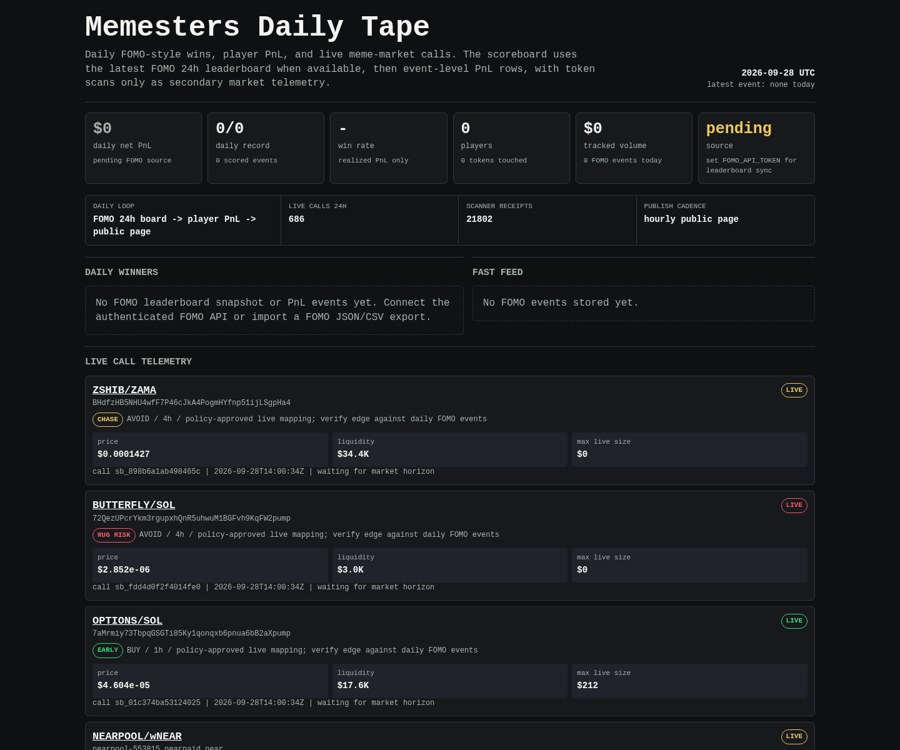
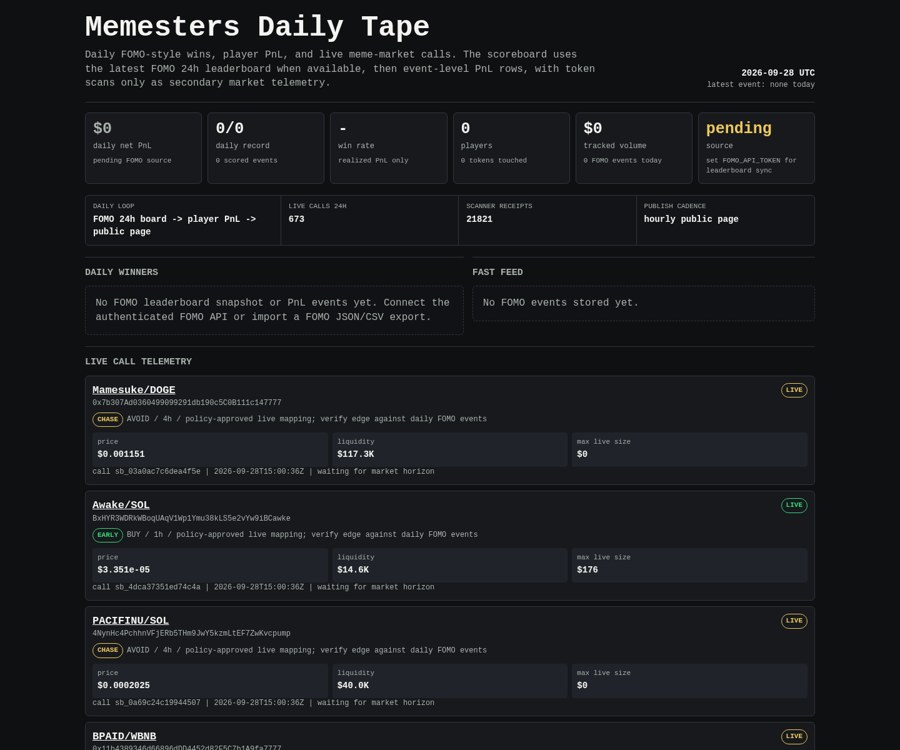
Update Memesters scoreboard

diff --git a/memesters/index.html b/memesters/index.html
@@ -149,8 +149,8 @@
 
     <div class="rail" aria-label="live operating loop">
       <div><span>daily loop</span><b>FOMO 24h board -> player PnL -> public page</b></div>
-      <div><span>live calls 24h</span><b>686</b></div>
-      <div><span>scanner receipts</span><b>21802</b></div>
+      <div><span>live calls 24h</span><b>673</b></div>
+      <div><span>scanner receipts</span><b>21821</b></div>
       <div><span>publish cadence</span><b>hourly public page</b></div>
     </div>
 
@@ -171,8 +171,8 @@
     <article class="receipt">
       <div class="receipt-head">
         <div>
-          <div class="pair"><a href="https://dexscreener.com/solana/caremnjwjz1pb4rf1w8y4xzbi7s6imp526yzvtetecuv">ZSHIB/ZAMA</a></div>
-          <div class="addr">BHdfzHB5NHU4wfF7P46cJkA4PogmHYfnp51ijLSgpHa4</div>
+          <div class="pair"><a href="https://dexscreener.com/bsc/0xbe433374b9f81debe7bd3f4f0582991dfd92c070">Mamesuke/DOGE</a></div>
+          <div class="addr">0x7b307Ad0360499099291db190c5C0B111c147777</div>
           <div class="addr policy-line">
             <span class="badge chase">CHASE</span>
             <span>AVOID / 4h / policy-approved live mapping; verify edge against daily FOMO events</span>
@@ -181,40 +181,19 @@
         <span class="badge chase">LIVE</span>
       </div>
       <div class="receipt-grid">
-        <div class="kv"><span>price</span><b>$0.0001427</b></div>
-        <div class="kv"><span>liquidity</span><b>$34.4K</b></div>
+        <div class="kv"><span>price</span><b>$0.001151</b></div>
+        <div class="kv"><span>liquidity</span><b>$117.3K</b></div>
         <div class="kv"><span>max live size</span><b>$0</b></div>
       </div>
-      <div class="outcomes">call sb_898b6a1ab498465c | 2026-09-28T14:00:34Z | waiting for market horizon</div>
+      <div class="outcomes">call sb_03a0ac7c6dea4f5e | 2026-09-28T15:00:36Z | waiting for market horizon</div>
     </article>
     
 
     <article class="receipt">
       <div class="receipt-head">
         <div>
-          <div class="pair"><a href="https://dexscreener.com/solana/2hawigtf8kxqdi96arkiqhjtehl2hxapxxbvnu9yctsy">BUTTERFLY/SOL</a></div>
-          <div class="addr">72QezUPcrYkm3rgupxhQnR5uhwuM1BGFvh9KqFW2pump</div>
-          <div class="addr policy-line">
-            <span class="badge rug-risk">RUG RISK</span>
-            <span>AVOID / 4h / policy-approved live mapping; verify edge against daily FOMO events</span>
-          </div>
-        </div>
-        <span class="badge rug-risk">LIVE</span>
-      </div>
-      <div class="receipt-grid">
-        <div class="kv"><span>price</span><b>$2.852e-06</b></div>
-        <div class="kv"><span>liquidity</span><b>$3.0K</b></div>
-        <div class="kv"><span>max live size</span><b>$0</b></div>
-      </div>
-      <div class="outcomes">call sb_fdd4d0f2f4014fe0 | 2026-09-28T14:00:34Z | waiting for market horizon</div>
-    </article>
-    
-
-    <article class="receipt">
-      <div class="receipt-head">
-        <div>
-          <div class="pair"><a href="https://dexscreener.com/solana/6rxhwqk8ljzliwu1yd8hhb2paph9kkb8we8ewcxgahg6">OPTIONS/SOL</a></div>
-          <div class="addr">7aMrmiy73TbpqGSGTi85Ky1qonqxb6pnua6bB2aXpump</div>
+          <div class="pair"><a href="https://dexscreener.com/solana/2wffb4o44jfb9ovz6ldutntxhqj2szafnb69hu4xzowk">Awake/SOL</a></div>
+          <div class="addr">BxHYR3WDRkWBoqUAqV1Wp1Ymu38kLS5e2vYw9iBCawke</div>
           <div class="addr policy-line">
             <span class="badge early">EARLY</span>
             <span>BUY / 1h / policy-approved live mapping; verify edge against daily FOMO events</span>
@@ -223,61 +202,19 @@
         <span class="badge early">LIVE</span>
       </div>
       <div class="receipt-grid">
-        <div class="kv"><span>price</span><b>$4.604e-05</b></div>
-        <div class="kv"><span>liquidity</span><b>$17.6K</b></div>
-        <div class="kv"><span>max live size</span><b>$212</b></div>
-      </div>
-      <div class="outcomes">call sb_01c374ba53124025 | 2026-09-28T14:00:34Z | waiting for market horizon</div>
-    </article>
-    
-
-    <article class="receipt">
-      <div class="receipt-head">
-        <div>
-          <div class="pair"><a href="https://dexscreener.com/near/refv2-nearpool-553815.nearpaid.near:wrap.near:10000">NEARPOOL/wNEAR</a></div>
-          <div class="addr">nearpool-553815.nearpaid.near</div>
-          <div class="addr policy-line">
-            <span class="badge chase">CHASE</span>
-            <span>AVOID / 4h / policy-approved live mapping; verify edge against daily FOMO events</span>
-          </div>
-        </div>
-        <span class="badge chase">LIVE</span>
-      </div>
-      <div class="receipt-grid">
-        <div class="kv"><span>price</span><b>$1.858e-05</b></div>
+        <div class="kv"><span>price</span><b>$3.351e-05</b></div>
         <div class="kv"><span>liquidity</span><b>$14.6K</b></div>
-        <div class="kv"><span>max live size</span><b>$0</b></div>
+        <div class="kv"><span>max live size</span><b>$176</b></div>
       </div>
-      <div class="outcomes">call sb_7a63ab04ff4d4241 | 2026-09-28T13:45:32Z | waiting for market horizon</div>
+      <div class="outcomes">call sb_4dca37351ed74c4a | 2026-09-28T15:00:36Z | waiting for market horizon</div>
     </article>
     
 
     <article class="receipt">
       <div class="receipt-head">
         <div>
-          <div class="pair"><a href="https://dexscreener.com/solana/cgasvfiurbzzkc78pxw1yc8qbsozsvytom6qgs3xkbjz">XPAY/SOL</a></div>
-          <div class="addr">Fz2nZbXYjKFRnsCUGeTm2P7f85osn1PPvpQ6JTS3pump</div>
-          <div class="addr policy-line">
-            <span class="badge rug-risk">RUG RISK</span>
-            <span>AVOID / 4h / policy-approved live mapping; verify edge against daily FOMO events</span>
-          </div>
-        </div>
-        <span class="badge rug-risk">LIVE</span>
-      </div>
-      <div class="receipt-grid">
-        <div class="kv"><span>price</span><b>$2.357e-06</b></div>
-        <div class="kv"><span>liquidity</span><b>$2.4K</b></div>
-        <div class="kv"><span>max live size</span><b>$0</b></div>
-      </div>
-      <div class="outcomes">call sb_5cc372fc96d84155 | 2026-09-28T13:45:32Z | waiting for market horizon</div>
-    </article>
-    
-
-    <article class="receipt">
-      <div class="receipt-head">
-        <div>
-          <div class="pair"><a href="https://dexscreener.com/solana/6rxk9bcnq2scyqcwqfs6am78uwdjzzwwjwxjqjdzcndw">MALIBU/AQUA</a></div>
-          <div class="addr">6o8o5kfGWvqVoVji2DZZQ9MLuNhkNLkDRXo5tgkYk6A</div>
+          <div class="pair"><a href="https://dexscreener.com/solana/4vjg8gmpke4nmbjegea24pryrn6z61jdsaqshylpnmf9">PACIFINU/SOL</a></div>
+          <div class="addr">4NynHc4PchhnVFjERb5THm9JwY5kzmLtEF7ZwKvcpump</div>
           <div class="addr policy-line">
             <span class="badge chase">CHASE</span>
             <span>AVOID / 4h / policy-approved live mapping; verify edge against daily FOMO events</span>
@@ -286,19 +223,19 @@
         <span class="badge chase">LIVE</span>
       </div>
       <div class="receipt-grid">
-        <div class="kv"><span>price</span><b>$3.922e-05</b></div>
-        <div class="kv"><span>liquidity</span><b>$17.6K</b></div>
+        <div class="kv"><span>price</span><b>$0.0002025</b></div>
+        <div class="kv"><span>liquidity</span><b>$40.0K</b></div>
         <div class="kv"><span>max live size</span><b>$0</b></div>
       </div>
-      <div class="outcomes">call sb_8fc928343d73468f | 2026-09-28T13:45:32Z | waiting for market horizon</div>
+      <div class="outcomes">call sb_0a69c24c19944507 | 2026-09-28T15:00:36Z | waiting for market horizon</div>
     </article>
     
 
     <article class="receipt">
       <div class="receipt-head">
         <div>
-          <div class="pair"><a href="https://dexscreener.com/solana/ec6q71yelnv1knvnerrwrmmqzsujqysh81trti5irp6">Viscacha/SOL</a></div>
-          <div class="addr">BKpPmVjnHmnRWUxVDgsFM8qfMDSG9fKPEDA9YRh1KMEs</div>
+          <div class="pair"><a href="https://dexscreener.com/bsc/0xfe46350bc381e1a554914deaf7663998c2a4b436">BPAID/WBNB</a></div>
+          <div class="addr">0x11b4389346d66896dDD4452d82F5C7b1A9fa7777</div>
           <div class="addr policy-line">
             <span class="badge chase">CHASE</span>
             <span>AVOID / 4h / policy-approved live mapping; verify edge against daily FOMO events</span>
@@ -307,19 +244,40 @@
         <span class="badge chase">LIVE</span>
       </div>
       <div class="receipt-grid">
-        <div class="kv"><span>price</span><b>$0.0001024</b></div>
-        <div class="kv"><span>liquidity</span><b>$27.9K</b></div>
+        <div class="kv"><span>price</span><b>$3.092e-05</b></div>
+        <div class="kv"><span>liquidity</span><b>$25.3K</b></div>
         <div class="kv"><span>max live size</span><b>$0</b></div>
       </div>
-      <div class="outcomes">call sb_2f3f9690f9c6473b | 2026-09-28T13:45:32Z | waiting for market horizon</div>
+      <div class="outcomes">call sb_80bf8dada3ef4f29 | 2026-09-28T15:00:36Z | waiting for market horizon</div>
     </article>
     
 
     <article class="receipt">
       <div class="receipt-head">
         <div>
-          <div class="pair"><a href="https://dexscreener.com/solana/caremnjwjz1pb4rf1w8y4xzbi7s6imp526yzvtetecuv">ZSHIB/ZAMA</a></div>
-          <div class="addr">BHdfzHB5NHU4wfF7P46cJkA4PogmHYfnp51ijLSgpHa4</div>
+          <div class="pair"><a href="https://dexscreener.com/near/refv2-screnearly.nearlytrade.near:wrap.near:10000">SCRENEARLY/wNEAR</a></div>
+          <div class="addr">screnearly.nearlytrade.near</div>
+          <div class="addr policy-line">
+            <span class="badge chase">CHASE</span>
+            <span>AVOID / 4h / policy-approved live mapping; verify edge against daily FOMO events</span>
+          </div>
+        </div>
+        <span class="badge chase">LIVE</span>
+      </div>
+      <div class="receipt-grid">
+        <div class="kv"><span>price</span><b>$3.298e-05</b></div>
+        <div class="kv"><span>liquidity</span><b>$20.9K</b></div>
+        <div class="kv"><span>max live size</span><b>$0</b></div>
+      </div>
+      <div class="outcomes">call sb_e73bb7e86d244546 | 2026-09-28T15:00:36Z | waiting for market horizon</div>
+    </article>
+    
+
+    <article class="receipt">
+      <div class="receipt-head">
+        <div>
+          <div class="pair"><a href="https://dexscreener.com/near/refv2-ngrow.nearlytrade.near:wrap.near:10000">NGROW/wNEAR</a></div>
+          <div class="addr">ngrow.nearlytrade.near</div>
           <div class="addr policy-line">
             <span class="badge early">EARLY</span>
             <span>BUY / 1h / policy-approved live mapping; verify edge against daily FOMO events</span>
@@ -328,19 +286,40 @@
         <span class="badge early">LIVE</span>
       </div>
       <div class="receipt-grid">
-        <div class="kv"><span>price</span><b>$7.06e-05</b></div>
-        <div class="kv"><span>liquidity</span><b>$24.1K</b></div>
-        <div class="kv"><span>max live size</span><b>$99</b></div>
+        <div class="kv"><span>price</span><b>$6.919e-06</b></div>
+        <div class="kv"><span>liquidity</span><b>$6.8K</b></div>
+        <div class="kv"><span>max live size</span><b>$25</b></div>
       </div>
-      <div class="outcomes">call sb_027bd8f8adf74d05 | 2026-09-28T13:45:32Z | waiting for market horizon</div>
+      <div class="outcomes">call sb_a729c3fd61474215 | 2026-09-28T14:45:40Z | waiting for market horizon</div>
     </article>
     
 
     <article class="receipt">
       <div class="receipt-head">
         <div>
-          <div class="pair"><a href="https://dexscreener.com/solana/14rekpvwhur4citum5e2dm6crvahzk1w3eojtgpzdabm">BUBBLE/SOL</a></div>
-          <div class="addr">J698fNgUeX9EeZJrWVLdeTUwemiwTUiWbwvLkVKWpump</div>
+          <div class="pair"><a href="https://dexscreener.com/bsc/0xbe433374b9f81debe7bd3f4f0582991dfd92c070">Mamesuke/DOGE</a></div>
+          <div class="addr">0x7b307Ad0360499099291db190c5C0B111c147777</div>
+          <div class="addr policy-line">
+            <span class="badge chase">CHASE</span>
+            <span>AVOID / 4h / policy-approved live mapping; verify edge against daily FOMO events</span>
+          </div>
+        </div>
+        <span class="badge chase">LIVE</span>
+      </div>
+      <div class="receipt-grid">
+        <div class="kv"><span>price</span><b>$0.001116</b></div>
+        <div class="kv"><span>liquidity</span><b>$113.2K</b></div>
+        <div class="kv"><span>max live size</span><b>$0</b></div>
+      </div>
+      <div class="outcomes">call sb_2ae7f5ff4e484d16 | 2026-09-28T14:45:40Z | waiting for market horizon</div>
+    </article>
+    
+
+    <article class="receipt">
+      <div class="receipt-head">
+        <div>
+          <div class="pair"><a href="https://dexscreener.com/solana/2wffb4o44jfb9ovz6ldutntxhqj2szafnb69hu4xzowk">Awake/SOL</a></div>
+          <div class="addr">BxHYR3WDRkWBoqUAqV1Wp1Ymu38kLS5e2vYw9iBCawke</div>
           <div class="addr policy-line">
             <span class="badge early">EARLY</span>
             <span>BUY / 1h / policy-approved live mapping; verify edge against daily FOMO events</span>
@@ -349,19 +328,19 @@
         <span class="badge early">LIVE</span>
       </div>
       <div class="receipt-grid">
-        <div class="kv"><span>price</span><b>$6.48e-05</b></div>
-        <div class="kv"><span>liquidity</span><b>$21.7K</b></div>
-        <div class="kv"><span>max live size</span><b>$261</b></div>
+        <div class="kv"><span>price</span><b>$5.269e-05</b></div>
+        <div class="kv"><span>liquidity</span><b>$18.9K</b></div>
+        <div class="kv"><span>max live size</span><b>$25</b></div>
       </div>
-      <div class="outcomes">call sb_752971297bbf4ced | 2026-09-28T13:30:34Z | <span class="positive">15m +71.3% / +$71 if followed</span></div>
+      <div class="outcomes">call sb_2fae7ff72f0f4834 | 2026-09-28T14:45:40Z | waiting for market horizon</div>
     </article>
     
 
     <article class="receipt">
       <div class="receipt-head">
         <div>
-          <div class="pair"><a href="https://dexscreener.com/solana/22lfhoywdpacjpsv9kfki3ytctio4ftcr1tqzqwh4ovl">ZARVIS/SOL</a></div>
-          <div class="addr">CHqimjWTh5jewF6RY1NdJzz4kfMTkJQP3V1QDkyBJXAx</div>
+          <div class="pair"><a href="https://dexscreener.com/solana/89ijxkmq9isr9ivpfqn8sen7sw1nmk1yqhnqakikwxzw">CMC/SOL</a></div>
+          <div class="addr">9BSBzdxfaC4BTPFmCLMxjaTwMMz8LXiVZoMyNMPWhcvu</div>
           <div class="addr policy-line">
             <span class="badge rug-risk">RUG RISK</span>
             <span>AVOID / 4h / policy-approved live mapping; verify edge against daily FOMO events</span>
@@ -370,11 +349,32 @@
         <span class="badge rug-risk">LIVE</span>
       </div>
       <div class="receipt-grid">
-        <div class="kv"><span>price</span><b>$3.825e-06</b></div>
-        <div class="kv"><span>liquidity</span><b>$3.6K</b></div>
+        <div class="kv"><span>price</span><b>$4.635e-05</b></div>
+        <div class="kv"><span>liquidity</span><b>$18.7K</b></div>
         <div class="kv"><span>max live size</span><b>$0</b></div>
       </div>
-      <div class="outcomes">call sb_bb239d0d5f0d4c8a | 2026-09-28T13:30:34Z | <span class="positive">15m -16.6% / +$17 if followed</span></div>
+      <div class="outcomes">call sb_5781d59212dc423e | 2026-09-28T14:30:36Z | <span class="negative">15m +86.4% / -$86 if followed</span></div>
+    </article>
+    
+
+    <article class="receipt">
+      <div class="receipt-head">
+        <div>
+          <div class="pair"><a href="https://dexscreener.com/bsc/0x251dc0cfac08d3352561d84802e3b8ddbc1d6de5">POO/WBNB</a></div>
+          <div class="addr">0x372ef131B69068eA774A3540C704db2B0bB38888</div>
+          <div class="addr policy-line">
+            <span class="badge early">EARLY</span>
+            <span>BUY / 1h / policy-approved live mapping; verify edge against daily FOMO events</span>
+          </div>
+        </div>
+        <span class="badge early">LIVE</span>
+      </div>
+      <div class="receipt-grid">
+        <div class="kv"><span>price</span><b>$5.304e-05</b></div>
+        <div class="kv"><span>liquidity</span><b>$15.7K</b></div>
+        <div class="kv"><span>max live size</span><b>$52</b></div>
+      </div>
+      <div class="outcomes">call sb_827e3130eece4ab1 | 2026-09-28T14:30:36Z | <span class="negative">15m -27.1% / -$27 if followed</span></div>
     </article>
     
     </section>
